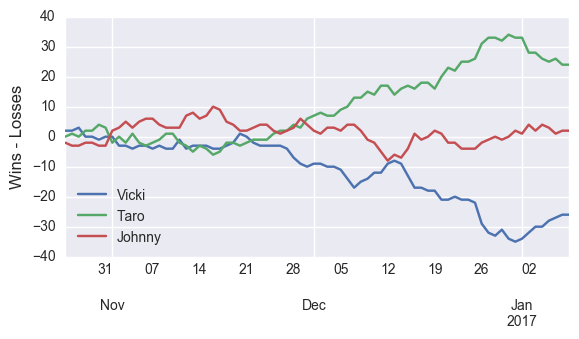
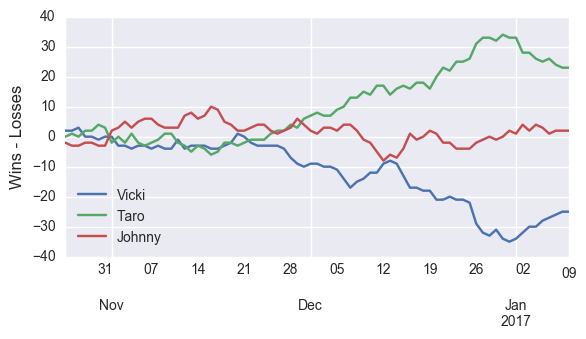
update 1/9

diff --git a/index.html b/index.html
@@ -35,7 +35,7 @@
 <a id="the-bet-is-on" class="anchor" href="#the-bet-is-on" aria-hidden="true"><span aria-hidden="true" class="octicon octicon-link"></span></a>The bet is on.</h1>
 
 <h1>
-<a id="current-winner-of-2016-17-season" class="anchor" href="#current-winner-of-2016-17-season" aria-hidden="true"><span aria-hidden="true" class="octicon octicon-link"></span></a>Current winner of 2016-17 Season (as of 1/8/2017):</h1>
+<a id="current-winner-of-2016-17-season" class="anchor" href="#current-winner-of-2016-17-season" aria-hidden="true"><span aria-hidden="true" class="octicon octicon-link"></span></a>Current winner of 2016-17 Season (as of 1/9/2017):</h1>
 
 <h2>
 <a id="none" class="anchor" href="#none" aria-hidden="true"><span aria-hidden="true" class="octicon octicon-link"></span></a><strong>Taro</strong>
@@ -44,23 +44,23 @@
 <h2>
 <a id="johnny" class="anchor" href="#johnny" aria-hidden="true"><span aria-hidden="true" class="octicon octicon-link"></span></a>Johnny</h2>
 
-<p>Wins: 188<br>
-Losses: 186<br>
-Remaining wins available: 379</p>
+<p>Wins: 191<br>
+Losses: 189<br>
+Remaining wins available: 375</p>
 
 <h2>
 <a id="taro" class="anchor" href="#taro" aria-hidden="true"><span aria-hidden="true" class="octicon octicon-link"></span></a>Taro</h2>
 
-<p>Wins: 196<br>
-Losses: 172<br>
-Remaining wins available: 381</p>
+<p>Wins: 198<br>
+Losses: 175<br>
+Remaining wins available: 377</p>
 
 <h2>
 <a id="vicki" class="anchor" href="#vicki" aria-hidden="true"><span aria-hidden="true" class="octicon octicon-link"></span></a>Vicki</h2>
 
-<p>Wins: 173<br>
-Losses: 199<br>
-Remaining wins available: 383</p>
+<p>Wins: 177<br>
+Losses: 202<br>
+Remaining wins available: 379</p>
 
 <img src='pythoncode/win_percent.png' alt='Winning Percentage Over Time'>
 <h1>
